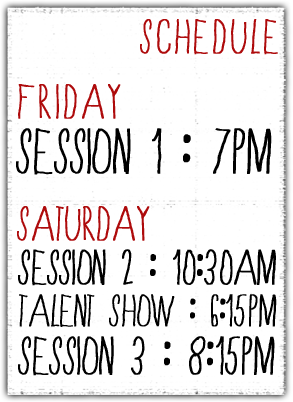
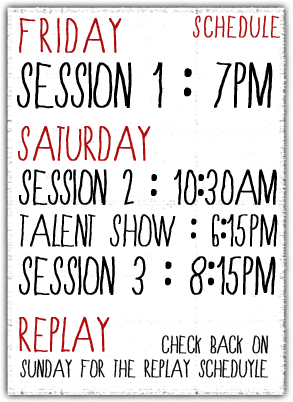
more layout fixes.

Changed region(s): [[0.0307, 0.0299, 0.9522, 0.9552], [0.4608, 0.0299, 0.9522, 0.2687], [0.6451, 0.5373, 0.6758, 0.597]]

diff --git a/public/index.html b/public/index.html
@@ -12,46 +12,48 @@
 </head>
 <body>
   <div class="container">
-    <div class="row">
-      <div class="span12">
-        <div class="row">
-          <div class="logo span4">
-            <a href="/"><img src="/images/logo.png" /></a>
-          </div>
-          <div class="span8">
-          </div>
+    <section class="header-content">
+      <div class="row">
+        <div class="logo span4">
+          <a href="/"><img src="/images/logo.png" /></a>
         </div>
-        <div class="row">
-          <div class="video span8">
-            <div id="mediaplayer">
-            </div>
-          </div>
-          <div class="schedule span4">
-            <img src="/images/schedule.png" />
-          </div>
-        </div>
-        <div class="row">
-          <div class="span3">
-            <img src="/images/replay1.png" />
-          </div>
-          <div class="span3">
-            <img src="/images/replay2.png" />
-          </div>
-          <div class="span3">
-            <img src="/images/replay3.png" />
-          </div>
-          <div class="span3">
-            <img src="/images/replay4.png" />
-          </div>
+        <div class="span8">
         </div>
       </div>
-    </div>
+    </section>
+    <section class="video-content">
+      <div class="row">
+        <div class="video span8">
+          <div id="mediaplayer">
+          </div>
+        </div>
+        <div class="schedule span3">
+          <img src="/images/schedule.png" />
+        </div>
+      </div>
+    </section>
+    <section class="replay-content">
+      <div class="row">
+        <div class="span3">
+          <img src="/images/replay1coming.png" />
+        </div>
+        <div class="span3">
+          <img src="/images/replay2coming.png" />
+        </div>
+        <div class="span3">
+          <img src="/images/replay3coming.png" />
+        </div>
+        <div class="span3">
+          <img src="/images/replay4coming.png" />
+        </div>
+      </div>
+    </section>
   </div>
   <script type="text/javascript">
     jwplayer('mediaplayer').setup({
       'id': 'playerID',
       'skin': '/minima.zip',
-      'autostart': 'true',
+      'autostart': 'false',
       'width': '640',
       'height': '360',
       'provider': 'rtmp',

diff --git a/public/dnow.css b/public/dnow.css
@@ -11,8 +11,25 @@ body {
   zoom: 1;
 }
 
-.video{
+section.header-content{
 }
 
-.schedule{
+section.video-content{
+	margin-top:20px;
+}
+
+div.video {
+	background: #000 url('images/player.jpg') top center fixed no-repeat;
+	padding: 5px;
+	margin-top:5px;
+}
+
+div.schedule img{
+	margin-top:5px;
+	margin-left: 70px;
+	height:370px;
+}
+
+section.replay-content{
+	margin-top:20px;
 }
